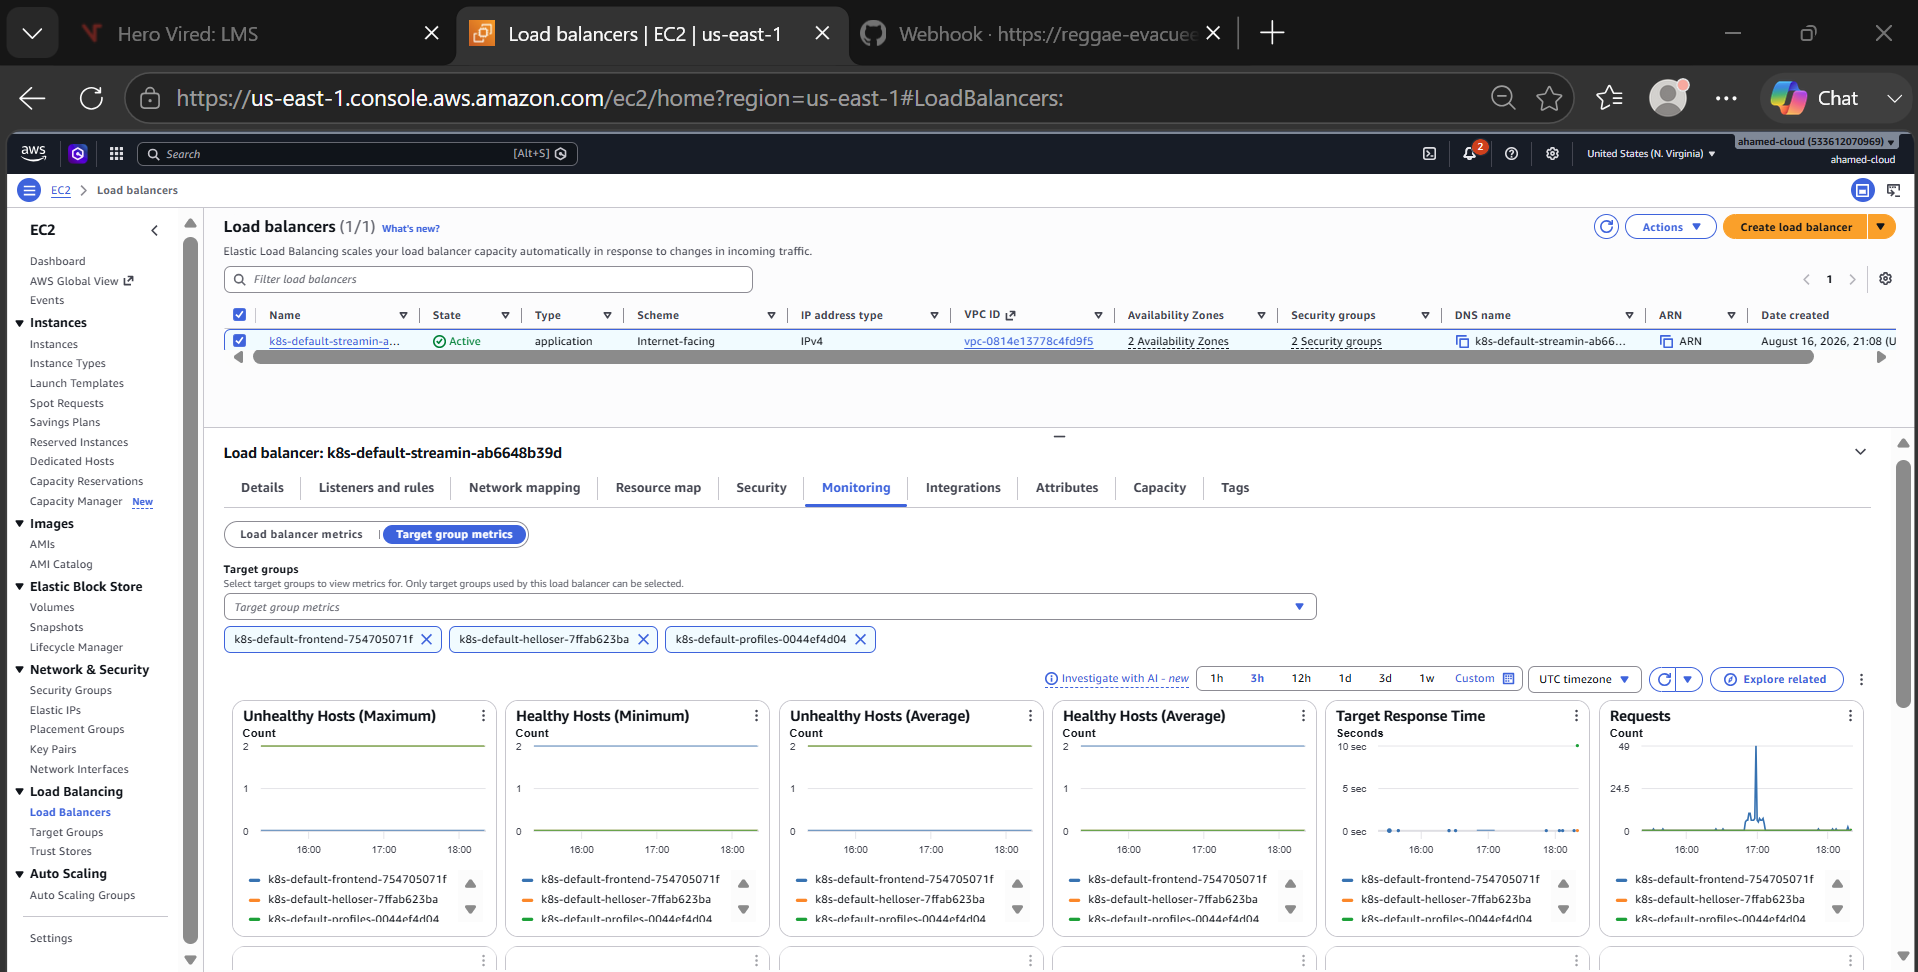
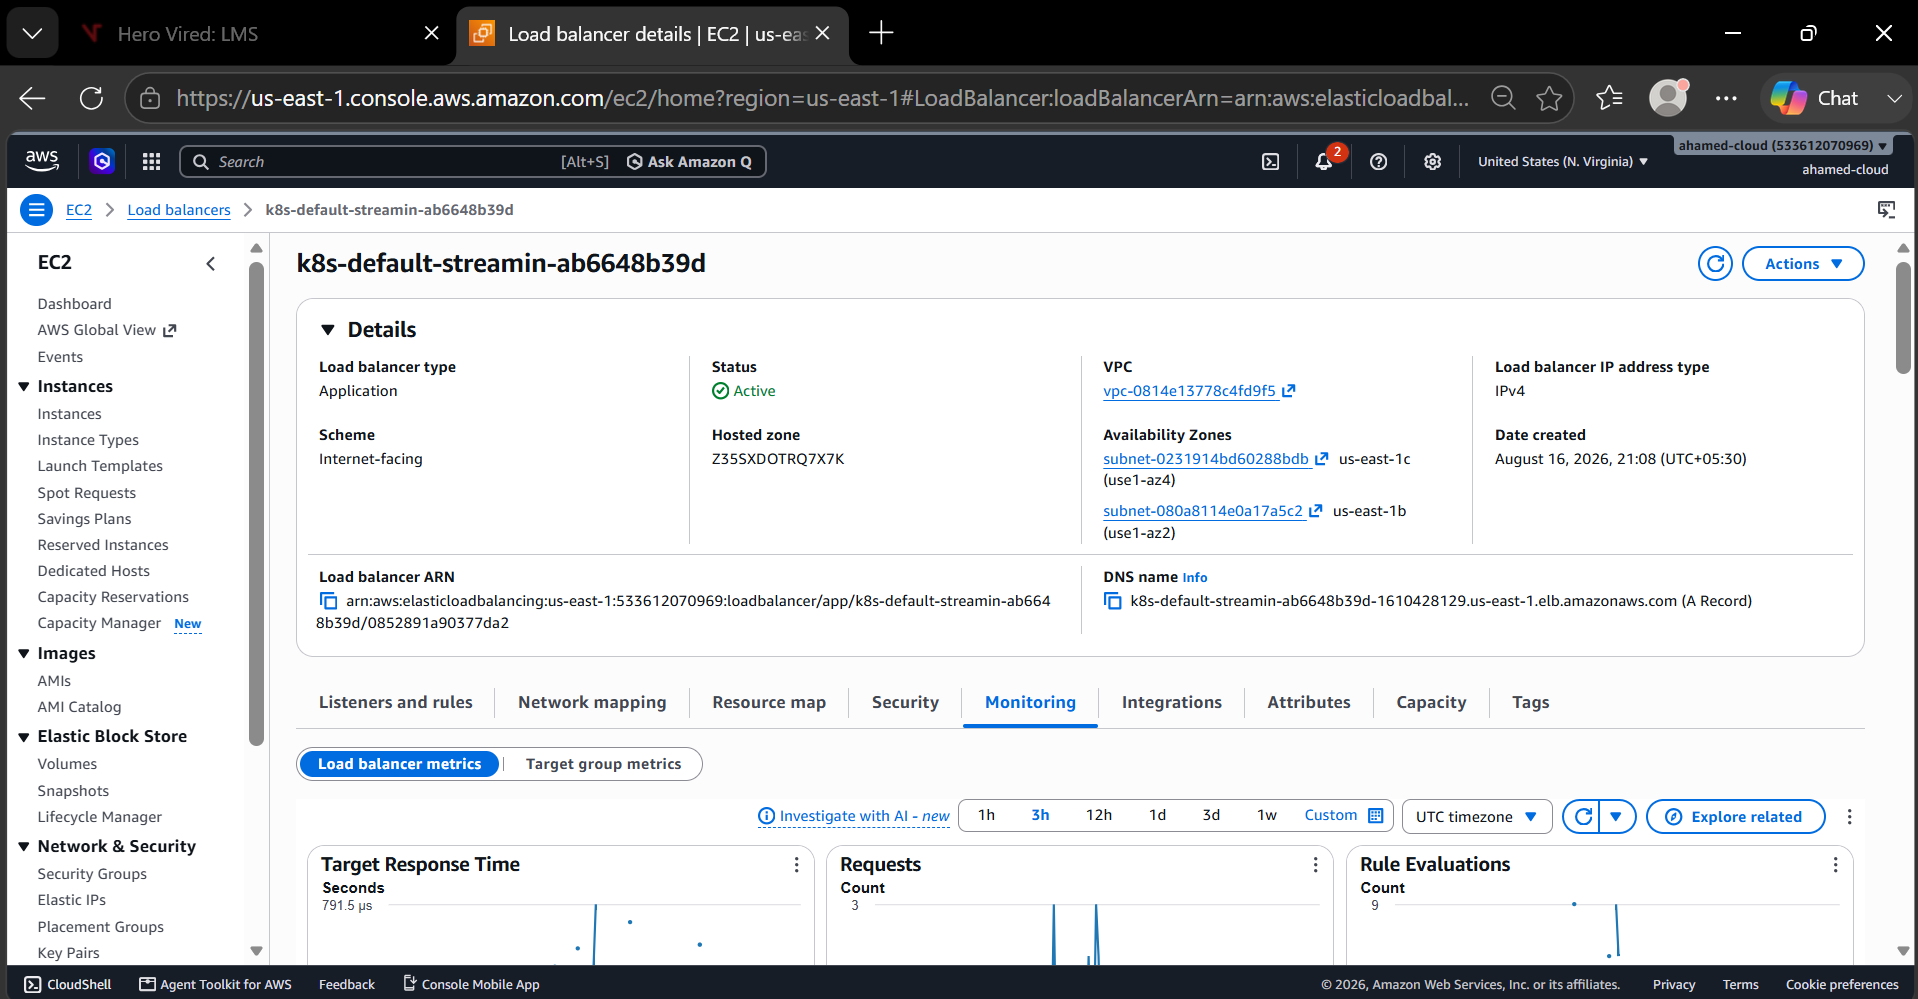
Updated README.md file

diff --git a/README.md b/README.md
@@ -1641,13 +1641,15 @@ Application Updated
 
 No manual **Build Now** action is required after the webhook is working.
 
----
+-------------------------------------------------
 
 # 37. Testing
 
+-------------------------------------------------
 
 ## Refer the complete, formatted, readable CI CD pipeline log file in 'pipeline-log' folder (jenkins-pipeline-log.pdf)
 
+-------------------------------------------------
 
 ## AWS EKS Cluster
 
@@ -1657,9 +1659,27 @@ No manual **Build Now** action is required after the webhook is working.
 -------------------------------------------------
 
 
+## AWS Load Balancer
+
+![AWS Load Balancer](./screenshots/aws-load-balancer.png)
+
+
+-------------------------------------------------
+
+
+### AWS Load Balancer Resource Map - refer health checks and target groups mapping with Load Balancer.
+
+![AWS Load Balancer Resource Map](./screenshots/aws-load-balancer-resource-map.png)
+
+
+
+-------------------------------------------------
+
+
 ## AWS ECR repositories
 
 ![Repos](./screenshots/aws-ecr-repositories.png)
+
 
 -------------------------------------------------
 
@@ -1675,6 +1695,7 @@ No manual **Build Now** action is required after the webhook is working.
 
 -------------------------------------------------
 
+
 ### profile-service repo image
 
 ![Repos-profile](./screenshots/aws-ecr-profile-service-repo-image.png)
@@ -1685,6 +1706,26 @@ No manual **Build Now** action is required after the webhook is working.
 ## AWS Secrets Manager
 
 ![Secrets Manager](./screenshots/aws-secrets-manager.png)
+
+
+-------------------------------------------------
+
+
+### AWS Secrets Manager validation
+
+
+```bash
+kubectl get secrets
+```
+
+```bash
+aws secretsmanager list-secrets `
+  --region us-east-1 `
+  --query "SecretList[].{Name:Name,ARN:ARN}" `
+  --output table
+```
+![Secrets Manager Validation](./screenshots/aws-secrets-manager-check.png)
+
 
 
 -------------------------------------------------
